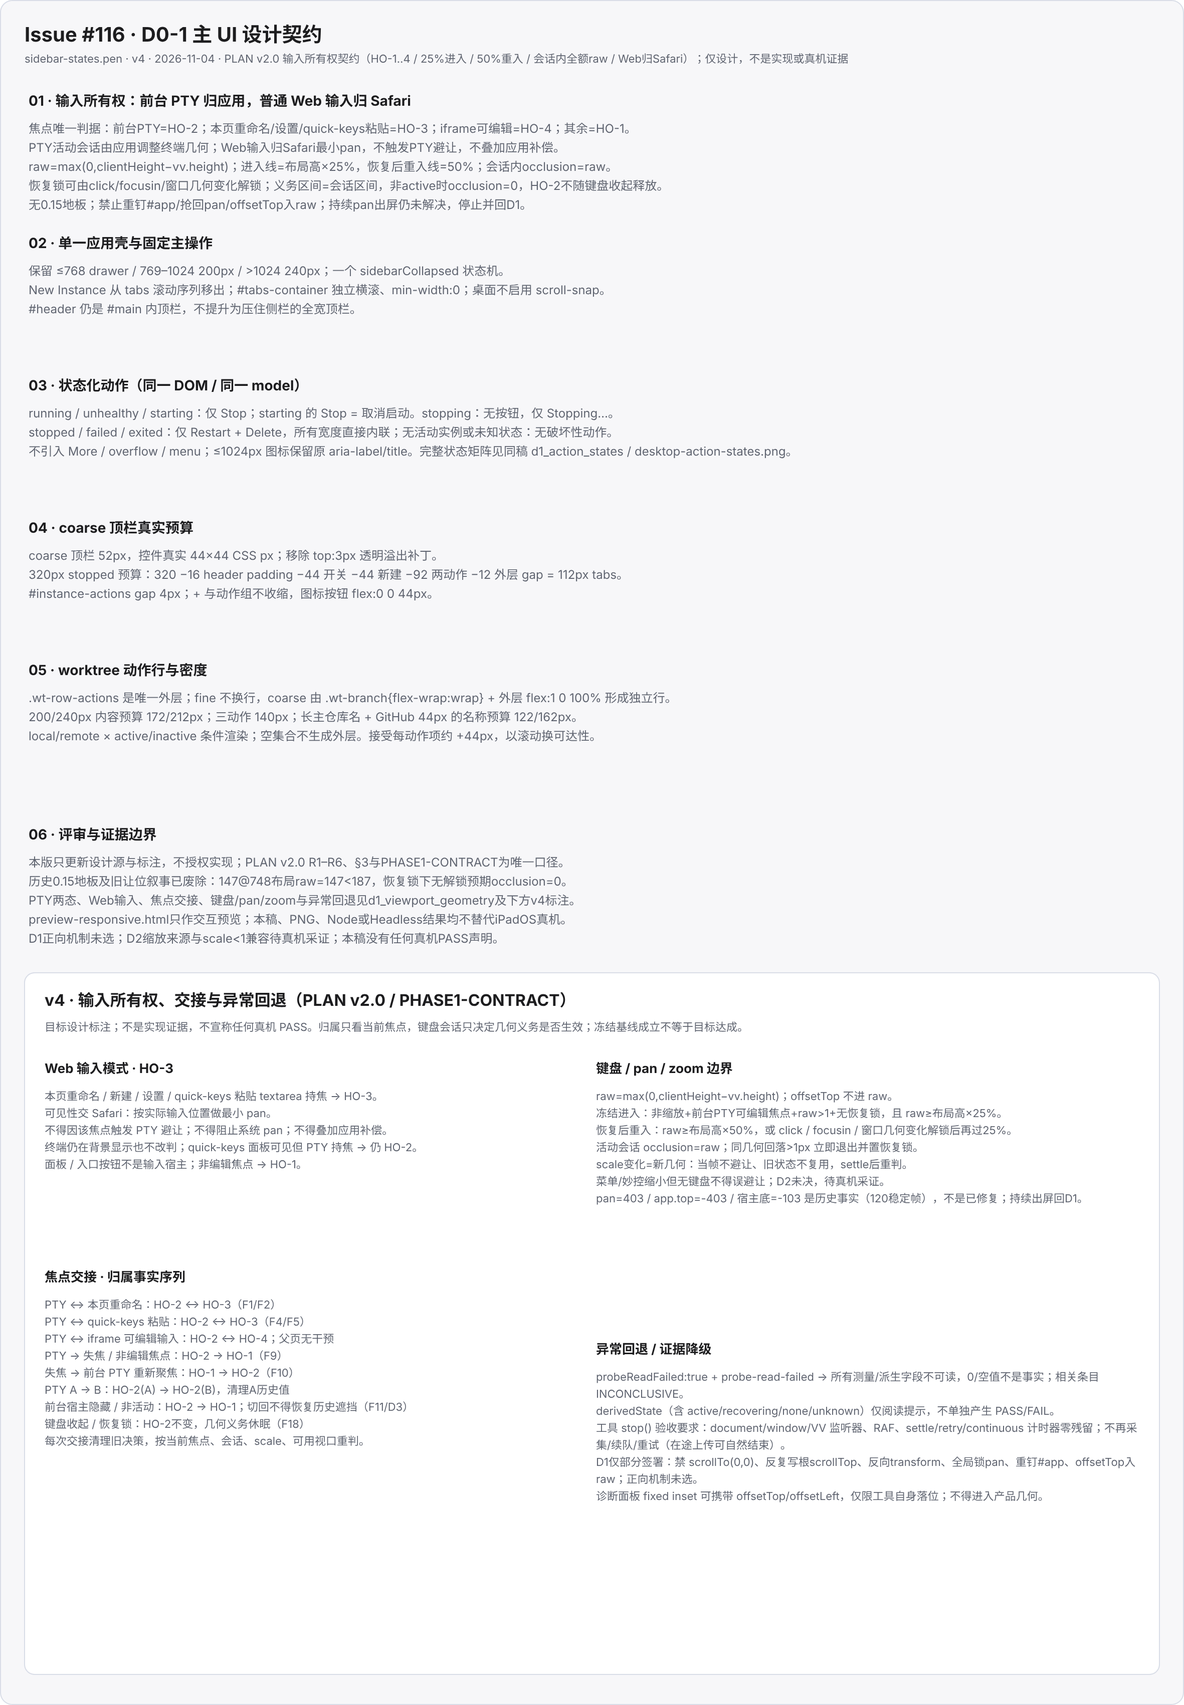
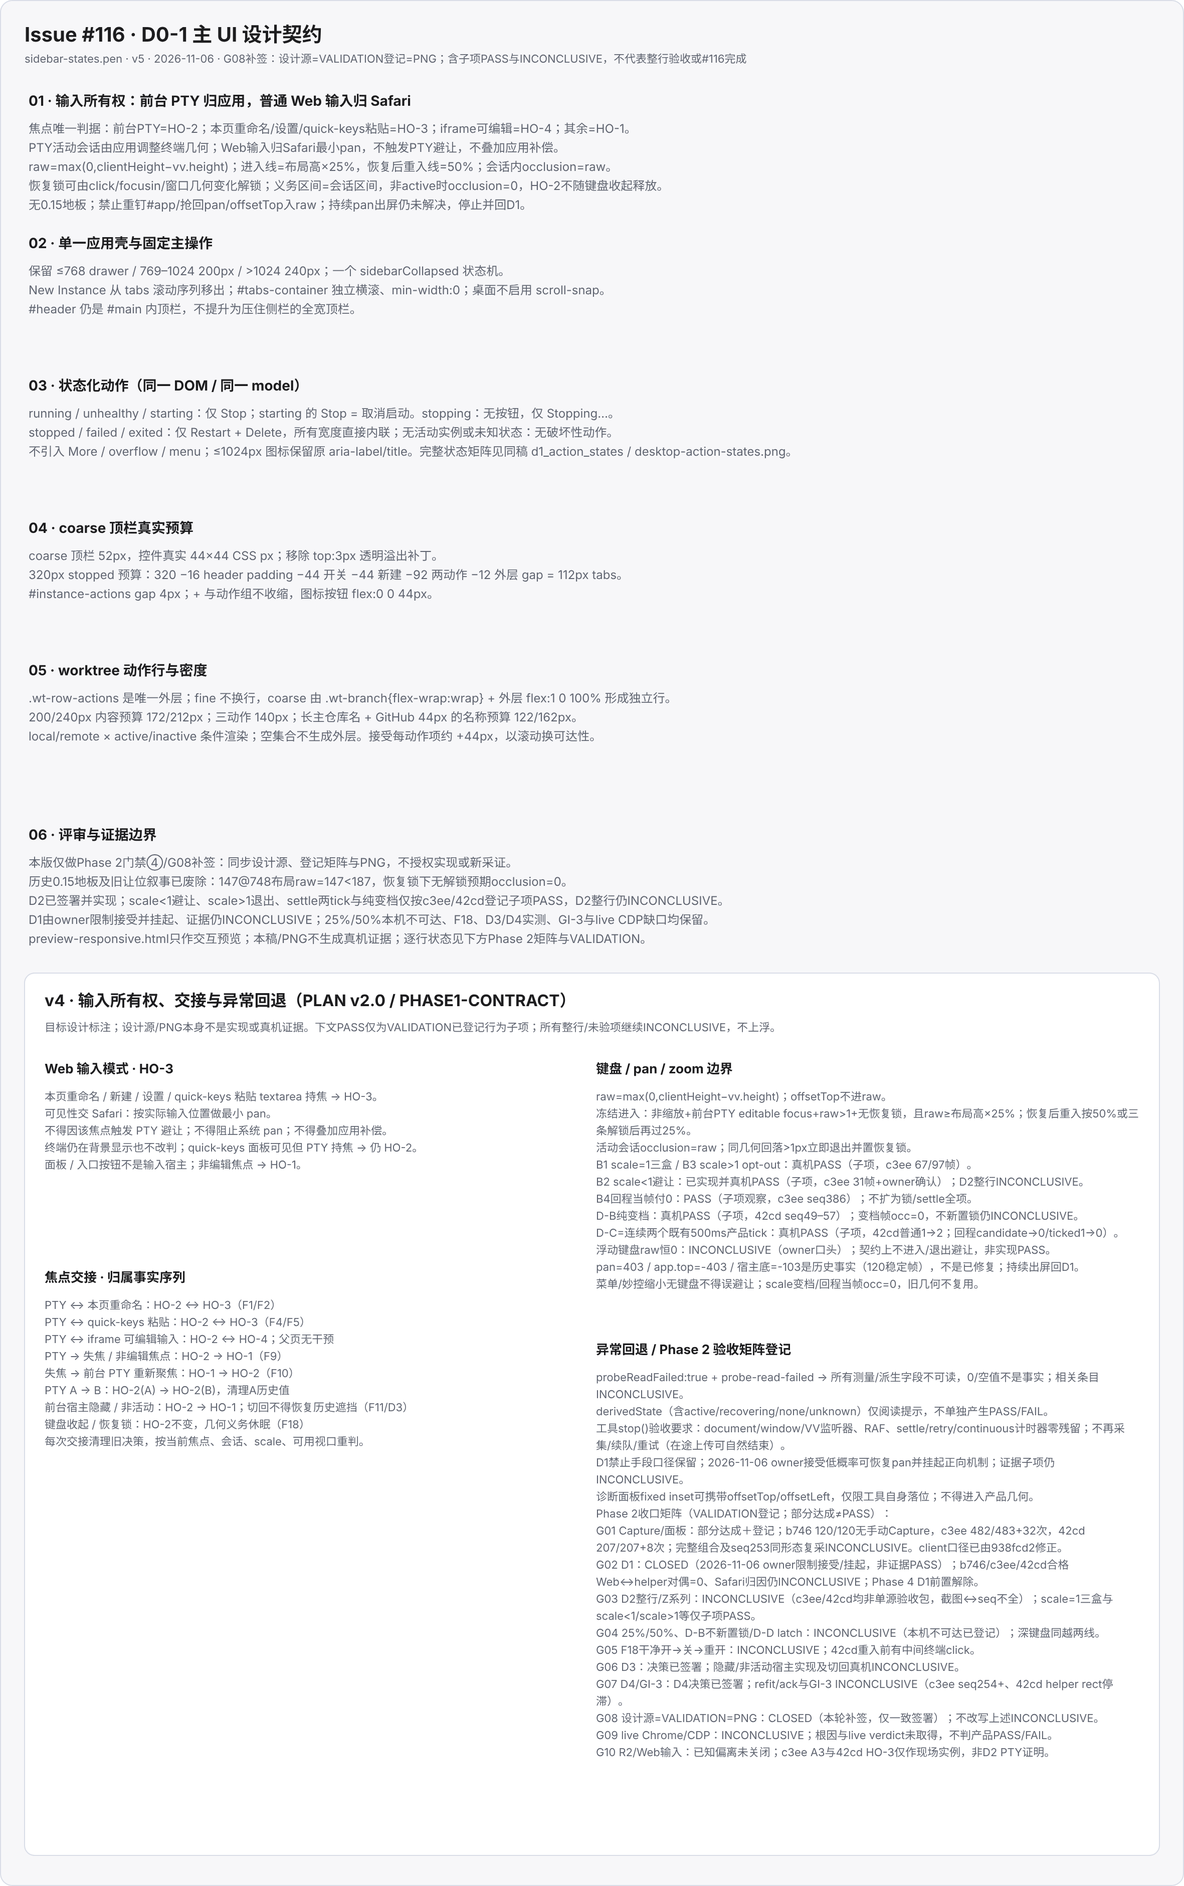
docs(plan): register D1 owner ruling and sign off G08 design consistency (issue #116)
同一批收口，两个登记组（VALIDATION 内相邻无法拆 hunk，合并提交并在此分节）：

【D1 owner 裁决】
- owner 逐字登记：偶发 pan 抬升仅存在于焦点切回终端后的小概率事件，
  复现条件不明；恢复路径两条（移出再切回焦点、手动滑动页面）；
  未观测到"光标被遮挡不可恢复"形态（口头回忆级）。
- G02 改为 owner 裁决关闭（限制接受、挂起），Phase 4 D1 前置阻断
  解除；D1 证据子项保持 INCONCLUSIVE（对偶帧 0、归因不可采），
  本次关闭不是证据 PASS；新 issue 候选 D1-FOLLOWUP 挂账（复现率
  可观或出现致命遮挡时再开）。
- 采证台账：2026-11-06 判别带与 D1 停采登记。

【G08 补签（Phase 2 门禁④ → CLOSED）】
- 设计源矩阵状态入稿（ui/*.pen 14 个文本节点 + 2 帧高度，无新增
  节点/坐标/色板）：v5 戳、D2 已实现及子项分层（绝不上浮整行）、
  G01-G10 逐行登记（G02 用 11-06 最新口径）、浮动键盘与本机
  判别带不可达；
- 重出 PNG 3 张（pen 0.3.11 节点原生，无 scale/不裁剪）：
  notes-decisions 2362×3762、viewport-geometry 2882×2482、
  quick-keys/notes-decisions 1002×1864；
- EXPORT-MANIFEST v5 一致性声明 + VALIDATION 签署记录行：
  "截至本轮提交，设计源文本=VALIDATION 登记=PNG 内容三项一致"；
  INCONCLUSIVE 全保留，真机像素排版仍未验证。

Changed region(s): [[0.0309, 0.0, 0.5872, 0.8413], [0.4945, 0.5608, 0.9272, 0.9347]]

diff --git a/docs/plans/fix-issue116/design/EXPORT-MANIFEST.md b/docs/plans/fix-issue116/design/EXPORT-MANIFEST.md
@@ -1,11 +1,76 @@
 # Issue #116 D0-1 / D0-2 设计导出与评审清单
 
-**日期**：2026-10-28（首版）／ 2026-11-02 修订 v2.1 ／ 2026-11-02 修订 v2.2 ／ 2026-11-03 修订 v3.0 / v3.0a / v3.1（均为历史）／ **2026-11-04 修订 v4（PLAN v2.0 输入所有权契约，当前口径）**
+**日期**：2026-10-28（首版）／ 2026-11-02 修订 v2.1 ／ 2026-11-02 修订 v2.2 ／ 2026-11-03 修订 v3.0 / v3.0a / v3.1（均为历史）／ 2026-11-04 修订 v4（历史）／ **2026-11-06 修订 v5（Phase 2 G08 补签，当前口径）**
 
 **工具**：`pen version` = **0.3.11**  
-**状态**：v4 设计源与受影响 PNG 已生成并校验；**设计评审与 Phase 2 门禁仍待签，本清单不含任何实现完成或真机 PASS 声明**。`preview-responsive.html` 不在本轮授权范围内，未同步其 v3.1 说明；它仍只是旧交互预览，不是 v4 契约来源或高度证据。
+**状态**：v5 设计源、受影响 PNG 与最新验收矩阵已完成一致签署，**Phase 2 门禁④ / G08 按补签口径关闭**；这只覆盖三项一致性，所有 INCONCLUSIVE 与其余评审 / 真机义务均保留，不表示产品或 #116 已完成。`preview-responsive.html` 不在本轮授权范围内，未同步其 v3.1 说明；它仍只是旧交互预览，不是 v5 契约来源或高度证据。
 
-## 0aaaa. 修订记录 v4（2026-11-04 · PLAN v2.0 输入所有权契约，当前）
+## 0aaaaa. 修订记录 v5（2026-11-06 · Phase 2 门禁④ / G08 补签，当前）
+
+**补签原因**：上一轮 Phase 2 收口时门禁④明确为“未达成＋显式推迟”，G08 保留为 Phase 3 开工前置；**本节即为该门禁的补签**。本轮只同步设计源文本、必要的既有容器高度与受影响 PNG，并登记签署；不授权产品 / 诊断 / evidence 改动，不新增设计结构节点，不执行新真机采证，不 commit。
+
+登记真源为 VALIDATION 的 c3ee / 42cd 专节、Phase 2 收口复核节，以及 **2026-11-06 G02 / D1 owner 限制接受与停采裁决**。后者是当前 G02 有效口径：owner 裁决关闭 / 挂起不等于证据 PASS，D1 证据子项仍 INCONCLUSIVE。
+
+### v5 改动节点与状态映射
+
+| 源稿 / 帧 | 改动节点 | 旧文 → 新文要点 |
+| --- | --- | --- |
+| `sidebar-states.pen` / `d1_notes` | `d1_text_0002` | v4 / 2026-11-04、仅设计声明 → v5 / 2026-11-06 G08 补签与三项一致性；不表示整行验收或 #116 完成 |
+| 同上 | `d1_text_0014` | D2 待真机、无任何真机 PASS → D2 已签署并实现，c3ee / 42cd 仅指定子项 PASS；D2 整行、D1 证据、25% / 50%、F18、D3 / D4 实测、GI-3、live CDP 缺口照实保留 |
+| 同上 / `i0LM2t` | `bx9BO` | 不宣称任何真机 PASS → PASS 只转述 VALIDATION 已登记行为子项，整行 / 未验项不上浮 |
+| 同上 | `P2vsjr` | D2 未决、待采证 → B1 / B3（c3ee 67 / 97 帧）、B2 scale<1 已实现并真机子项 PASS（c3ee 31 帧＋owner 确认）、B4 回程当帧付 0、D-B 纯变档与 D-C 两个既有 500ms 产品 tick（42cd）逐行登记；浮动键盘 raw=0 仅为 owner 口头级 INCONCLUSIVE |
+| 同上 | `Qx6HO`、`X66O6e` | 仅异常回退标题 / 正文 → 保留异常回退，并补入 Phase 2 收口矩阵 G01–G10；G02 使用 2026-11-06 owner 限制接受的最新口径 |
+| 同上 | `i0LM2t` 高 700→880；`d1_notes` 高 1700→1880 | 仅为完整容纳新增矩阵文字及底部留白；未新增 / 删除节点，未改其他节点坐标、色板或产品 UI 结构 |
+| `sidebar-states.pen` / `d1_viewport_geometry` | `d1_text_1201`、`d1_text_1202` | v4 / D2 未决 → v5 / D2 已签署并实现；c3ee / 42cd 子项 PASS 与整行 INCONCLUSIVE 分层，指向 `d1_notes` 矩阵 |
+| 同上 | `d1_text_1222` | 不宣称真机 PASS → 本图只转述登记，子项 PASS 不覆盖 D2 整行，未验项 INCONCLUSIVE |
+| 同上 | `d1_text_1242` | scale<1 未决 → 已实现、c3ee 真机子项 PASS；settle 两 tick / 42cd 子项 PASS；D2 整行与浮动键盘口头观察仍 INCONCLUSIVE |
+| 同上 | `d1_text_1243` | 泛化面板 fixed inset 说明 → 面板支持性按 client 实际落点修正（`938fcd2`），不再以 layout 界判 unsupported，并补横向 client 检查；c3ee `seq253` 同形态 free 复采未做，G01 保留；同步 G02 最新状态 |
+| `quick-keys-panel.pen` / `qk0001` | `qk0010b` | v4 D2 待真机 / 无真机 PASS → v5 G08 补签，连续两个 500ms 产品 tick、c3ee / 42cd 子项 PASS、D2 整行 INCONCLUSIVE、浮动键盘口头级与本机不可达登记；指向主矩阵。仅文本自动排版，无新节点 |
+
+### v5 画布验收矩阵登记
+
+下表与 `X66O6e` 的画布文字及最终 `notes-decisions.png` 一致；“部分达成＋登记”、决策签署和 owner 限制接受均不等于行为 PASS。
+
+| 行 | 当前登记状态 |
+| --- | --- |
+| G01 | Capture / 面板部分达成＋登记；b746 120/120 supported、无手动 Capture，c3ee 482/483＋32 次，42cd 207/207＋8 次；完整组合与 `seq253` 同形态复采仍 INCONCLUSIVE，client 口径已由 `938fcd2` 修正 |
+| G02 | **CLOSED（owner 限制接受 / 挂起，非证据 PASS）**；b746 / c3ee / 42cd 合格 Web↔helper 对偶仍为 0，Safari 归因仍 INCONCLUSIVE；Phase 4 的 D1 相应前置解除 |
+| G03 | D2 整行 / Z 系列 INCONCLUSIVE；c3ee / 42cd 非单源验收包且截图↔seq 不全；scale=1 三盒、scale<1、scale>1 等仅子项 PASS |
+| G04 | 25% / 50%、D-B 不新置锁、D-D latch **INCONCLUSIVE（本机不可达已登记）**；深键盘同越两线 |
+| G05 | F18 干净开→关→重开 INCONCLUSIVE；42cd 重入前有中间终端 click |
+| G06 | D3 决策已签署；隐藏 / 非活动宿主实现及切回真机 INCONCLUSIVE |
+| G07 | D4 决策已签署；refit / ack 与 GI-3 INCONCLUSIVE（c3ee `seq254+`、42cd helper rect 停滞） |
+| G08 | **CLOSED（本轮补签，仅一致签署）**；不改写任何 INCONCLUSIVE |
+| G09 | live Chrome / CDP INCONCLUSIVE；根因与 live verdict 未取得，不判产品 PASS / FAIL |
+| G10 | R2 / Web 输入已知偏离未关闭；c3ee A3 与 42cd HO-3 仅作现场实例，非 D2 PTY 证明 |
+
+### v5 原生导出、实际像素与回读
+
+使用 `pen version` = **0.3.11**；按节点 id 执行 `Export(ids,"png",dir)`，**未传 scale、未 resize、未裁剪、未做截图缩放或后期修图**，随后改为既定文件名。
+
+| Frame id | 既定 PNG | v5 实际像素 | v4 像素 / 变化 | 实际导出次数 |
+| --- | --- | ---: | --- | ---: |
+| `d1_notes` | `ui/notes-decisions.png` | **2362×3762** | 2362×3402；**高 +360**（源高 1700→1880） | **2**（首次回读发现矩阵底部截断；仅扩既有容器高后第 2 次，最终 G01–G10 完整可见） |
+| `d1_viewport_geometry` | `ui/viewport-geometry.png` | **2882×2482** | 2882×2482；未变 | **1** |
+| `qk0001` | `ui/quick-keys/notes-decisions.png` | **1002×1864** | 1002×1728；**高 +136**（文本自动排版） | **1**（此前两条失败命令均在 Export 执行前回滚，未生成图片；修正后实际导出 1 次） |
+
+实际成功导出命令：
+
+```
+pen interactive --in ui/sidebar-states.pen --out ui/sidebar-states.pen
+  save() → execute(Export(["d1_notes","d1_viewport_geometry"],"png","/tmp/issue116-v5-export-d3wmgm73/sidebar"))
+  execute(Update(i0LM2t/d1_notes 仅高度)) → save() → execute(Export(["d1_notes"],"png","/tmp/issue116-v5-export-d3wmgm73/sidebar-final"))
+pen interactive --in ui/quick-keys/quick-keys-panel.pen --out ui/quick-keys/quick-keys-panel.pen
+  save() → execute(Export(["qk0001"],"png","/tmp/issue116-v5-export-d3wmgm73/quick-keys"))
+```
+
+最终 3 张 PNG 均已回读：矩阵文字完整，几何帧和 quick-keys 说明未见新增文本截断或重叠。只读测量中一次远端 Noto Sans 拉取失败并返回零高度，未用该数值冒充版面验收；最终以实际 PNG 回读为准。**这只是设计产物检查，真机像素排版仍未做。** `d1_quick_short`、`qk0053`、`qk0124` 及其他源内容未变，对应 PNG 不重出。
+
+### v5 一致性签署
+
+**截至本轮提交，设计源文本=VALIDATION 登记状态=PNG 内容三项一致。** 本签署只关闭 Phase 2 门禁④ / G08 的一致性签署缺口；G02 的证据子项以及 G03–G05、G07、G09 等 INCONCLUSIVE 全部保留，G01 / G06 / G10 的既定承接不变，任何子项 PASS 均不上浮为整行或 #116 PASS。真机像素排版、完整 Z 系列及其他未验场景不因本补签关闭。
+
+## 0aaaa. 修订记录 v4（2026-11-04 · PLAN v2.0 输入所有权契约，历史）
 
 本版以 `PLAN.md` v2.0 的 R1–R6、§3 与 `PHASE1-CONTRACT.md`（含提交 `323fa91` 的修订）为现行口径。下方 v3.1 / v3.0a / v3.0 及更早段落**全部是历史记录**，其中 0.15 地板、555→147 让位、整壳钉高或根原点等旧叙事不得再作为设计或验收依据。当前进入线为布局高 ×25%，恢复后重入线为 ×50%，活动会话内 `occlusion = raw`；不存在 0.15 持续过滤地板。
 
@@ -213,7 +278,7 @@ pen interactive --in ui/quick-keys/quick-keys-panel.pen --out ui/quick-keys/quic
 - 三份源稿均通过 `pen interactive` 的 `get_app_state()` 文档/schema 校验，并由 `save()` 保存。
 - frame id 通过 `Get((n,c)=>{c.skipChildren();Print(n.id,n.name,n.width,n.height)})` 查询确认；未使用占位 id。
 - 所有 PNG 均通过 interactive `Export(ids, "png", dir)` 原生导出，**未传入 scale，也未做任何后期 resize、裁剪或截图缩放**。下表记录实际 PNG 像素尺寸；其大于 CSS 场景尺寸是 CLI 当前导出行为。
-- 本轮未升级 CLI，未混用不同 CLI/Export 路径。v4 仅重出主 UI 的 `d1_notes` / `d1_viewport_geometry` / `d1_quick_short` 与 quick-keys 的 `qk0001` / `qk0053` / `qk0124`；其余源内容与既有 PNG 保持不变。
+- 本轮未升级 CLI，未混用不同 CLI/Export 路径。v4 仅重出主 UI 的 `d1_notes` / `d1_viewport_geometry` / `d1_quick_short` 与 quick-keys 的 `qk0001` / `qk0053` / `qk0124`；v5 仅重出 `d1_notes` / `d1_viewport_geometry` / `qk0001`，其余源内容与既有 PNG 保持不变。
 - 已逐项目检主 UI 与 Portal 必需画面。初次主 UI 导出中发现的终端坐标遮挡、密度说明重叠及 Portal 空态表头换行问题均已回改 `.pen` 并重新导出，不以修图代替源稿修正。
 
 ## 2. D0-1 主 UI
@@ -223,7 +288,7 @@ pen interactive --in ui/quick-keys/quick-keys-panel.pen --out ui/quick-keys/quic
 
 | Frame id | PNG（`ui/`） | 实际像素 | 覆盖内容 |
 | --- | --- | ---: | --- |
-| `d1_notes` | `notes-decisions.png` | 2362×3402 | 状态矩阵、断点不变、全宽内联；v4 输入所有权、Web 输入、焦点交接、键盘/pan/zoom 与异常回退标注；设计/证据边界 |
+| `d1_notes` | `notes-decisions.png` | 2362×3762 | 状态矩阵、断点不变、全宽内联；v5 输入所有权、Web 输入、焦点交接、键盘/pan/zoom、异常回退与 Phase 2 G01–G10 最新登记矩阵；设计/证据边界 |
 | `d1_desktop_expanded` | `desktop-expanded.png` | 2882×1802 | 1440×900、240px 展开侧栏、running 仅 Stop |
 | `d1_desktop_collapsed` | `desktop-collapsed.png` | 2882×1802 | 折叠零宽、stopped 的 Restart + Delete 内联 |
 | `d1_action_states` | `desktop-action-states.png` | 2882×1962 | running / starting / stopping / stopped 四态及完整矩阵 |
@@ -237,17 +302,17 @@ pen interactive --in ui/quick-keys/quick-keys-panel.pen --out ui/quick-keys/quic
 | `d1_density390` | `worktree-density-390.png` | 782×1690 | 390×844、240px drawer、无动作无空行 |
 | `d1_density820` | `worktree-density-820.png` | 1642×2362 | 820×1180、200px 并排侧栏与滚动后果 |
 | `d1_density_matrix` | `worktree-density-matrix.png` | 3362×2602 | 320/390/820 × 0/1/multi 设计矩阵；真实滚动数据待回填 |
-| `d1_viewport_geometry` | `viewport-geometry.png` | 2882×2482 | v4 四格：PTY 活动/非活动会话两态、25%/50% 门线与历史数值重述、键盘/pan/zoom 边界；不含 0.15 地板 |
+| `d1_viewport_geometry` | `viewport-geometry.png` | 2882×2482 | v5 四格：PTY 活动/非活动会话两态、25%/50% 门线与历史数值重述、D2 子项/整行分层、浮动键盘、面板 client 口径及键盘/pan/zoom 边界；不含 0.15 地板 |
 | `d1_quick_short` | `quick-keys-short-viewport.png` | 1642×1202 | 820×600 矮视口；活动会话控制列随 `20+occlusion` 收缩，粘贴 textarea 为 HO-3；quick-keys 与新顶栏互不遮挡 |
 
 ### quick-keys 既有稿件复核
 
 设计源：[quick-keys-panel.pen](../../../../ui/quick-keys/quick-keys-panel.pen)
 
-- 形态、键集、入口、左展与内部滚动不变；说明帧（`qk0010b`）已按 v4 改写为焦点归属 + 冻结会话几何口径，不再使用 0.15 地板，也不再把 Web 粘贴输入当作 PTY 避让触发器。
+- 形态、键集、入口、左展与内部滚动不变；说明帧（`qk0010b`）已按 v5 改写为焦点归属 + 冻结会话几何 + Phase 2 当前登记状态，不再使用 0.15 地板，也不再把 Web 粘贴输入当作 PTY 避让触发器；D2 子项 PASS 不上浮整行。
 - 粘贴兜底组件（`qk0053` / `qk0062`）明确 textarea 持焦为 HO-3、Safari 最小 pan、无 PTY 避让/双重补偿，点回终端后按当帧会话重判；对应 `component-panel-paste-fallback.png` 为 **562×724**。
 - iPhone 软键盘帧（`qk0125` + `qk0156`）明确前台 PTY 持焦且活动会话前提，会话内 `occlusion=raw`；非会话 `occlusion=0`、满高被覆盖为预期，粘贴 textarea 则归 HO-3。
-- `qk0001` → `notes-decisions.png`（**1002×1728**）；`qk0053` → `component-panel-paste-fallback.png`（**562×724**）；`qk0124` → `scene-iphone-keyboard-panel.png`（**802×1772**，尺寸未变）。
+- `qk0001` → `notes-decisions.png`（**1002×1864**）；`qk0053` → `component-panel-paste-fallback.png`（**562×724**）；`qk0124` → `scene-iphone-keyboard-panel.png`（**802×1772**，尺寸未变）。
 
 ### preview 验证（只验证 preview，不是 PR1/真机证据）
 

diff --git a/docs/plans/fix-issue116/PLAN.md b/docs/plans/fix-issue116/PLAN.md
@@ -361,7 +361,8 @@ owner 选择 B：**就此打住，未闭环项按已登记状态如实收束，P
 | 编号 | 已知缺口与当前状态 | 后续承接 |
 | --- | --- | --- |
 | **G01** | 面板完整真机组合未覆盖；`938fcd2` 的 c3ee `seq253` 同形态 free 复采未做。其余已观测帧不上浮为完整矩阵 PASS | **Phase 3 真机验收的诊断前置**；Phase 5 全表面回归复核 |
-| **G02** | D1 缺同条件 Web ↔ helper 对偶 pan 时序 / 归因；正向机制未签署，现状身份 / rect 与 pan 替代事实不足以选型 | **Phase 4 的 D1 机制实现前置阻断项**；未补签前不得开工 |
+| **G02** | **2026-11-06 owner 裁决关闭（限制接受）**：D1 正向机制按 owner 产品裁决接受现行为（低概率 pan、可恢复；未见致命遮挡）并挂起；证据子项仍 **INCONCLUSIVE**（同条件 Web ↔ helper 对偶帧为 0、Safari 归因不可采），关闭不是证据 PASS。owner 原文、现象与归因边界见 [VALIDATION 2026-11-06 专节](evidence/VALIDATION-2026-11-04.md) | **解除 Phase 4 的 D1 相应验收前置阻断（owner 限制接受）**，不再等对偶帧，不启动 Phase 3/4 的 D1 归因或机制选择义务；本行是最新有效口径，覆盖本文此前 D1 阻断表述。**Phase 3 输入所有权拆分（G10）仍照常**，其他独立门禁不变 |
+| **D1-FOLLOWUP（新 issue 候选，未开启）** | 当前不另开 issue、不为该非致命缺陷继续补采；保留 D1 证据子项 **INCONCLUSIVE** 与上述现行为接受口径 | 未来若复现率可观，或发生“pan 不抬升且终端不抬升、光标被遮挡”等致命 / 不可恢复遮挡，依据 VALIDATION 2026-11-06 专节开独立 issue 处理 D1 pan 归因与机制选择；不追溯转化为本次 Phase 3/4 的 D1 义务 |
 | **G03** | D2 的 Z-PINCH / Z-MENU / Z-MAGIC 三条独立单源会话、完整截图 ↔ seq 链与整行形式要件未满足；整行 **INCONCLUSIVE** | **Phase 5** D2 真机矩阵与 A0 0.75 锚点验收 |
 | **G04** | 本机 25% / 50% 中间判别带不可达；深键盘重入不能证明门线选择、D-B 不新置锁或 D-D latch 语义，相关真机子项 **INCONCLUSIVE** | **Phase 5**；仅在未来设备 / 形态自然产生可判别几何时补采，不强行造数，Node 逻辑回归继续独立承担实现覆盖 |
 | **G05** | F18 虽有连续持焦与开→关→重开几何链，但重入前存在中间终端 click；干净段 **INCONCLUSIVE** | **Phase 5** 键盘生命周期回归 |

diff --git a/docs/plans/fix-issue116/DATA-COLLECTION.md b/docs/plans/fix-issue116/DATA-COLLECTION.md
@@ -478,6 +478,7 @@ owner 选择 B 后，Phase 2 标记为**收口（有显式登记缺口）**。§
 | F18 无中间 click 的开→关→重开 | 已有连续持焦与几何链，但候选段存在中间终端 click，保持 **INCONCLUSIVE** | PLAN G05；**Phase 5** 键盘生命周期回归 |
 | D3 隐藏 / 非活动宿主、D4 refit 与 GI-3 rows/cols / ack | D3 / D4 设计已签署；实现和真机场景未验，GI-3 停滞观察未归因 | PLAN G06 / G07；**Phase 4** 实现与定向验证，**Phase 5** 实例切换和生命周期回归 |
 | 实时 Chrome/CDP live 检查 | 根因与 verdict 均未取得，低优先级独立工具链缺口；不是产品 PASS / FAIL | PLAN G09；**Phase 5** 浏览器回归前排期，仍需最终实时证据时最迟并入 Phase 6 |
+| **2026-11-06 判别带与 D1 停采** | 25% / 50% 中间判别带沿用既有“本机不可达、不强行造数”口径；D1 新增 owner 停采裁决，不再等待 Web ↔ helper 对偶帧。D1 证据子项仍 **INCONCLUSIVE**（对偶帧 0、Safari 归因不可采），owner 仅在产品层面接受低概率、可恢复 pan 并挂起，不是证据 PASS | PLAN G02 已按 owner 限制接受关闭并解除 Phase 4 的 D1 相应前置，Phase 3 输入所有权拆分（G10）照常。仅当未来复现率可观或发生致命 / 不可恢复遮挡时，按 PLAN 的 D1-FOLLOWUP 候选开独立 issue 重启归因与机制评估；本行是 D1 停采与门禁的最新口径，覆盖本节前述 D1 阻断表述 |
 
 ### 11.3 未来恢复采证的必要条件
 
